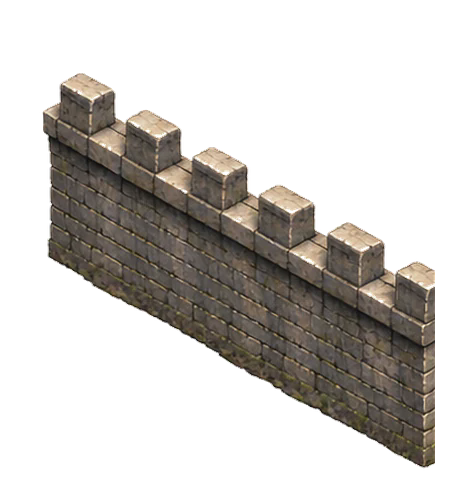
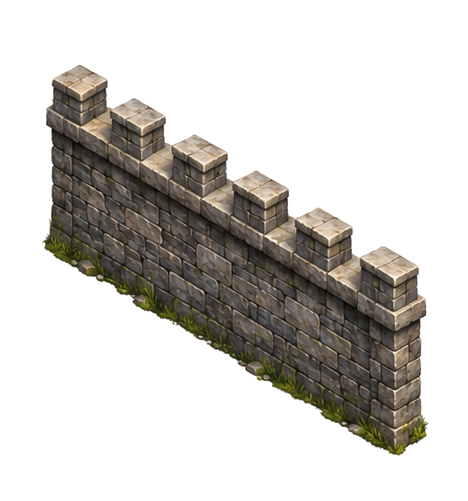
fix(stone): align all 6 painted wall directions to canonical hex vertices
Replace opposite-slope diagonal sprites, narrow uprights and oversized corner turrets with anchored stone raster artwork. Retain palisade v5, update 3x image caches and add Firefox silhouette-slope regression.

Changed region(s): [[0.0897, 0.1198, 0.9274, 0.9581]]

diff --git a/index.html b/index.html
@@ -322,7 +322,7 @@ Ihre Form wird ausschließlich im Bergwerkzeug eingestellt. Ihre Deckkraft folgt
 <div class="infobox" id="roadBridgeStats" role="status">Brücken werden aus Weg-/Flusskreuzungen ermittelt.</div>
 <p class="muted">Berghexe und die direkte Einflusszone platzierter Berge sind für Straßen gesperrt. Vorhandene Straßenstücke in diesen Feldern werden ausgeblendet.</p>
 </div>
-<div class="control-section" id="wallPanel"><h3>Mauern · Palisaden v5 · Steinmauern v3</h3>
+<div class="control-section" id="wallPanel"><h3>Mauern · Palisaden v5 · Steinmauern v4</h3>
 <p class="muted">Ein Segment liegt exakt auf der gemeinsamen Kante zweier Nachbarhexe, nicht doppelt auf beiden. Sechs Richtungen, zusammenhängende Eckanschlüsse, Gemalte Palisadenbilder für alle sechs Richtungen sowie separate Eck- und Endpfosten. Die Palisadenstücke enden vor den gemeinsamen Hexecken; verbindende Pfostengrafiken schließen die Zwischenräume. Steinmauern verwenden sechs eigenständige hochauflösende PNG-Richtungsbilder sowie eigene Eck- und Endstücke, ohne Laufzeitrotation oder Perspektivverzerrung. Reiner Grafikprototyp: noch keine M24-Baukosten, Tore, Besitz- oder Kampfregeln.</p>
 <label class="checkbox"><input id="wallShown" type="checkbox" checked> Mauersegmente auf der Karte anzeigen</label>
 <label>Mauertyp<select id="wallKind"><option value="stone">Steinmauer</option><option value="palisade">Holzpalisade</option></select></label>
@@ -408,11 +408,11 @@ Ihre Form wird ausschließlich im Bergwerkzeug eingestellt. Ihre Deckkraft folgt
 window.VedrasCloudsDisabled=new URLSearchParams(location.search).get('clouds')!=='1';</script>
 <script src="asset-image-pool.js?v=0.3.1&amp;step11=20261028"></script><script src="render-quality-policy.js?v=0.1.0&amp;terrain=quality-source-20261117"></script><script src="gpu-terrain.js?v=0.2.0&amp;uvHighp=20261122"></script><script src="strategic-view.js?v=0.1.0"></script><script src="static-terrain-cache.js?v=0.1.0"></script><script src="render-benchmark-profiler.js?v=0.1.0"></script>
 <script src="render-step15-trace.js?v=0.1.0"></script>
-<script src="sprite-atlas-runtime.js?v=0.3.0"></script><script src="worldgen-geography.js?v=2.1.2"></script><script src="geography-io.js?v=20261120-io-v1"></script><script src="catalog.js?v=0.18.0"></script><script src="terrain-source-rules.js?v=0.18.0"></script><script src="water-texture.js?v=20261119-forest-seamless-v2"></script><script src="autotile.js?v=20261119-ground-wrap-v1"></script><script src="chunks.js?v=0.37.1&amp;step16b=20261101-offscreen1"></script><script src="terrain-worker-client.js?v=20261119-ground-wrap-v1"></script><script src="nature_catalog.js?v=20261121-desert-trees-v1"></script><script src="flora-plan.js?v=0.17.0"></script><script src="terrain-plan.js?v=0.18.0"></script><script src="sprite-planner.js?v=0.16.0"></script><script src="existing-asset-rules.js?v=20261121-desert-trees-v1"></script><script src="forest.js?v=20261122-canopy-variation-v1"></script><script src="forest-ground.js?v=20261120-organic-v1&amp;softSnow=20261122"></script><script src="nature-balance.js?v=0.36.1"></script><script src="polish.js?v=0.21.0"></script><script src="relief.js?v=0.35.0"></script><script src="shoreline.js?v=0.30.1&amp;artfix=20261027"></script><script src="river.js?v=0.30.0"></script><script src="river-banks.js?v=0.2.0"></script><script src="mountain.js?v=0.11.0"></script><script src="roads.js?v=0.31.0"></script><script src="walls.js?v=20261123-stone-raster-v3"></script><script src="bridges.js?v=0.28.0"></script><script src="shadow-tone.js?v=20261122-shadow-union-v1"></script><script src="shadow-system.js?v=20261122-gray-all-v1"></script><script src="shadow-shapes.js?v=20261122-gray-all-v1"></script><script src="sprite-shadow-editor.js?v=20261122-shadow-union-v1"></script><script src="shadow-painter-ui.js?v=0.1.0"></script><script src="object-layout-cache.js?v=0.2.0"></script><script src="static-object-layer.js?v=0.2.0"></script><script src="gpu-sprite-layer.js?v=0.1.0"></script><script src="frame-preparation-cache.js?v=0.1.0"></script><script src="adaptive-lod.js?v=0.1.1&amp;step10=20261027"></script><script src="realtime-map-renderer.js?v=0.1.1"></script><script src="cloud-artwork.js?v=0.22.4&amp;step12=20261028"></script><script src="fog-atmosphere.js?v=0.22.4"></script><script src="quick-terrain-preview.js?v=20261101-1"></script>
+<script src="sprite-atlas-runtime.js?v=0.3.0"></script><script src="worldgen-geography.js?v=2.1.2"></script><script src="geography-io.js?v=20261120-io-v1"></script><script src="catalog.js?v=0.18.0"></script><script src="terrain-source-rules.js?v=0.18.0"></script><script src="water-texture.js?v=20261119-forest-seamless-v2"></script><script src="autotile.js?v=20261119-ground-wrap-v1"></script><script src="chunks.js?v=0.37.1&amp;step16b=20261101-offscreen1"></script><script src="terrain-worker-client.js?v=20261119-ground-wrap-v1"></script><script src="nature_catalog.js?v=20261121-desert-trees-v1"></script><script src="flora-plan.js?v=0.17.0"></script><script src="terrain-plan.js?v=0.18.0"></script><script src="sprite-planner.js?v=0.16.0"></script><script src="existing-asset-rules.js?v=20261121-desert-trees-v1"></script><script src="forest.js?v=20261122-canopy-variation-v1"></script><script src="forest-ground.js?v=20261120-organic-v1&amp;softSnow=20261122"></script><script src="nature-balance.js?v=0.36.1"></script><script src="polish.js?v=0.21.0"></script><script src="relief.js?v=0.35.0"></script><script src="shoreline.js?v=0.30.1&amp;artfix=20261027"></script><script src="river.js?v=0.30.0"></script><script src="river-banks.js?v=0.2.0"></script><script src="mountain.js?v=0.11.0"></script><script src="roads.js?v=0.31.0"></script><script src="walls.js?v=20261123-stone-correct-hex-v4"></script><script src="bridges.js?v=0.28.0"></script><script src="shadow-tone.js?v=20261122-shadow-union-v1"></script><script src="shadow-system.js?v=20261122-gray-all-v1"></script><script src="shadow-shapes.js?v=20261122-gray-all-v1"></script><script src="sprite-shadow-editor.js?v=20261122-shadow-union-v1"></script><script src="shadow-painter-ui.js?v=0.1.0"></script><script src="object-layout-cache.js?v=0.2.0"></script><script src="static-object-layer.js?v=0.2.0"></script><script src="gpu-sprite-layer.js?v=0.1.0"></script><script src="frame-preparation-cache.js?v=0.1.0"></script><script src="adaptive-lod.js?v=0.1.1&amp;step10=20261027"></script><script src="realtime-map-renderer.js?v=0.1.1"></script><script src="cloud-artwork.js?v=0.22.4&amp;step12=20261028"></script><script src="fog-atmosphere.js?v=0.22.4"></script><script src="quick-terrain-preview.js?v=20261101-1"></script>
 <script src="frozen-map-package.js?v=20261101-2"></script>
 <script src="authored-world-contract.js?v=20261118-semantic-world-v1"></script>
 <script src="frozen-map-runtime.js?v=20261118-near-archive-audit-v4&amp;edgePolicy=20261119&amp;linkedAudit=20261122&amp;coreScene=20261122"></script>
 <script src="frozen-ground-core-seams.js?v=20261120-owned-core-gate-v1&amp;hexTip=20261122"></script>
 <script src="world-tile-streamer.js?v=0.22.6&amp;fix=exact-lod-20261117&amp;clouds=off-20261120&amp;coreFilter=20261122"></script>
-<script src="world-tile-ground-reuse.js?v=0.1.0"></script><script src="app.js?v=20261120-organic-v1&amp;diagnostics=20261121&amp;shadows=partial-20261121&amp;edgeCore=20261122&amp;localPreview=20261122&amp;softSnow=20261122&amp;grayAll=20261122&amp;shadowUnion=20261122&amp;footGate=20261122&amp;walls=20261123-stone-raster-v3&amp;coreScene=20261122&amp;geography=2.1.2&amp;geographyIO=20261120&amp;clouds=off-20261120"></script><script src="nature-ui.js?v=20261122-open-trees-v1&amp;alpineShrubs=20261122"></script><script src="road-ui.js?v=0.28.0"></script><script src="wall-ui.js?v=20261123-authored-art-and-joins-v3"></script><script src="ui-organizer.js?v=20261122-shadow-gray-shortcut-v1"></script><script src="forest-ui.js?v=20261122-canopy-variation-v1"></script><script src="river-ui.js?v=0.15.0"></script><script src="flora-workspace.js?v=0.13.0"></script>
+<script src="world-tile-ground-reuse.js?v=0.1.0"></script><script src="app.js?v=20261120-organic-v1&amp;diagnostics=20261121&amp;shadows=partial-20261121&amp;edgeCore=20261122&amp;localPreview=20261122&amp;softSnow=20261122&amp;grayAll=20261122&amp;shadowUnion=20261122&amp;footGate=20261122&amp;walls=20261123-stone-correct-hex-v4&amp;coreScene=20261122&amp;geography=2.1.2&amp;geographyIO=20261120&amp;clouds=off-20261120"></script><script src="nature-ui.js?v=20261122-open-trees-v1&amp;alpineShrubs=20261122"></script><script src="road-ui.js?v=0.28.0"></script><script src="wall-ui.js?v=20261123-authored-art-and-joins-v3"></script><script src="ui-organizer.js?v=20261122-shadow-gray-shortcut-v1"></script><script src="forest-ui.js?v=20261122-canopy-variation-v1"></script><script src="river-ui.js?v=0.15.0"></script><script src="flora-workspace.js?v=0.13.0"></script>
 </body></html>

diff --git a/walls.js b/walls.js
@@ -193,12 +193,12 @@ window.VedrasWalls=(()=>{
  const palisadeMaterial={inset:10.5,width:16,height:70,
   cornerWidth:25,cornerHeight:76,endWidth:23,endHeight:76};
  const palisadeJoinArt=new Map();
- // Stone v3 uses independently painted, high-resolution transparent PNGs.
+ // Stone v4 uses independently painted, high-resolution transparent PNGs.
  // 3x raster sprites retain fixed 2.5D anchors and upright stone faces.
  // No image is tilted or stretched by direction at runtime.
  const stoneJoinArt=new Map();
  const stoneRasterMeta=wallArtMeta.stone;
- const stoneMaterial={cornerWidth:40,cornerHeight:82,endWidth:32,endHeight:82};
+ const stoneMaterial={cornerWidth:34,cornerHeight:74,endWidth:30,endHeight:74};
  const wallArt=new Map();
  let artworkPromise=null;
  function artworkReady(){
@@ -213,7 +213,7 @@ window.VedrasWalls=(()=>{
     image.onerror=()=>resolve(false);
     image.src='assets/walls/'+kind+'/edge_dir'+side+
      (kind==='palisade'?'.webp?v=20261123-painted-volumetric-v5':
-      '.png?v=20261123-stone-raster-v3');
+      '.png?v=20261123-stone-correct-hex-v4');
    }));
   }
   for(const name of ['corner_post','end_post']){
@@ -229,7 +229,7 @@ window.VedrasWalls=(()=>{
    pending.push(new Promise(resolve=>{
     image.onload=()=>resolve(true);
     image.onerror=()=>resolve(false);
-    image.src='assets/walls/stone/'+name+'.png?v=20261123-stone-raster-v3';
+    image.src='assets/walls/stone/'+name+'.png?v=20261123-stone-correct-hex-v4';
    }));
   }
   artworkPromise=Promise.all(pending).then(results=>{

diff --git a/app.js b/app.js
@@ -4365,6 +4365,7 @@ function frozenSceneKey({force4x=false}={}){
   'stone-crenellated-ashlar-parapets-and-pier-v1',
   'stone-painted-webp-edges-and-grounded-join-assets-v2',
   'stone-orthographic-3x-raster-edges-no-birdseye-crenels-v3',
+  'stone-correct-diagonal-hex-slope-ground-footprint-v4',
   'forest-floor-wrap-v1',
   'organic-forest-fringes-and-soft-snow-v4',
   // Strict source-core alpha stabilization and read-only seam publication
